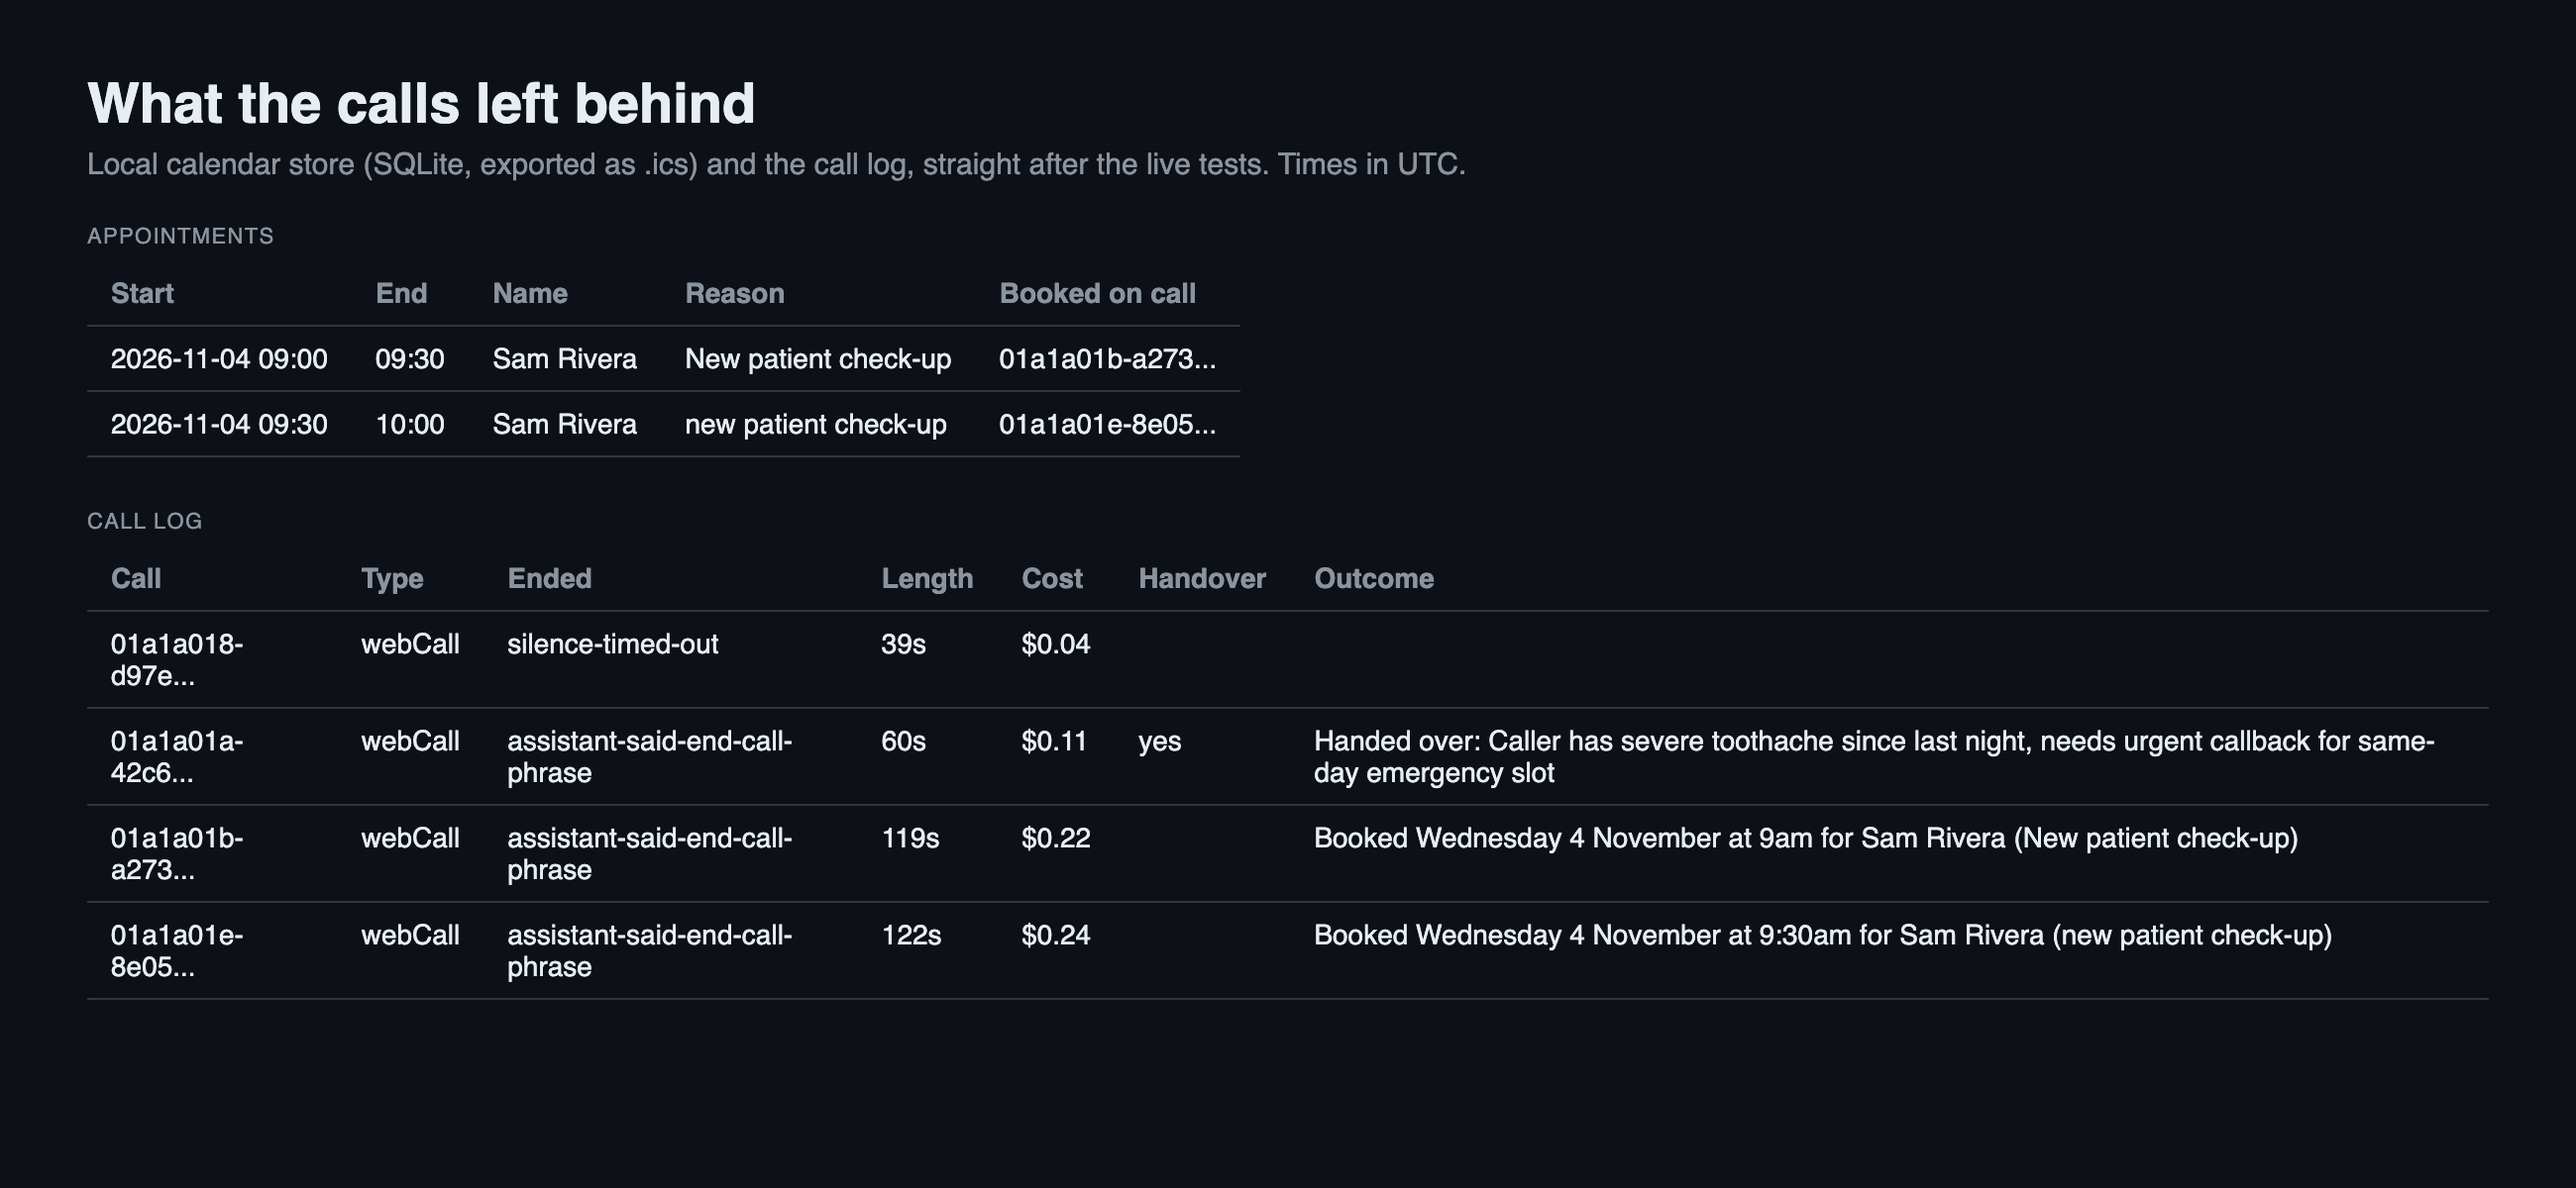
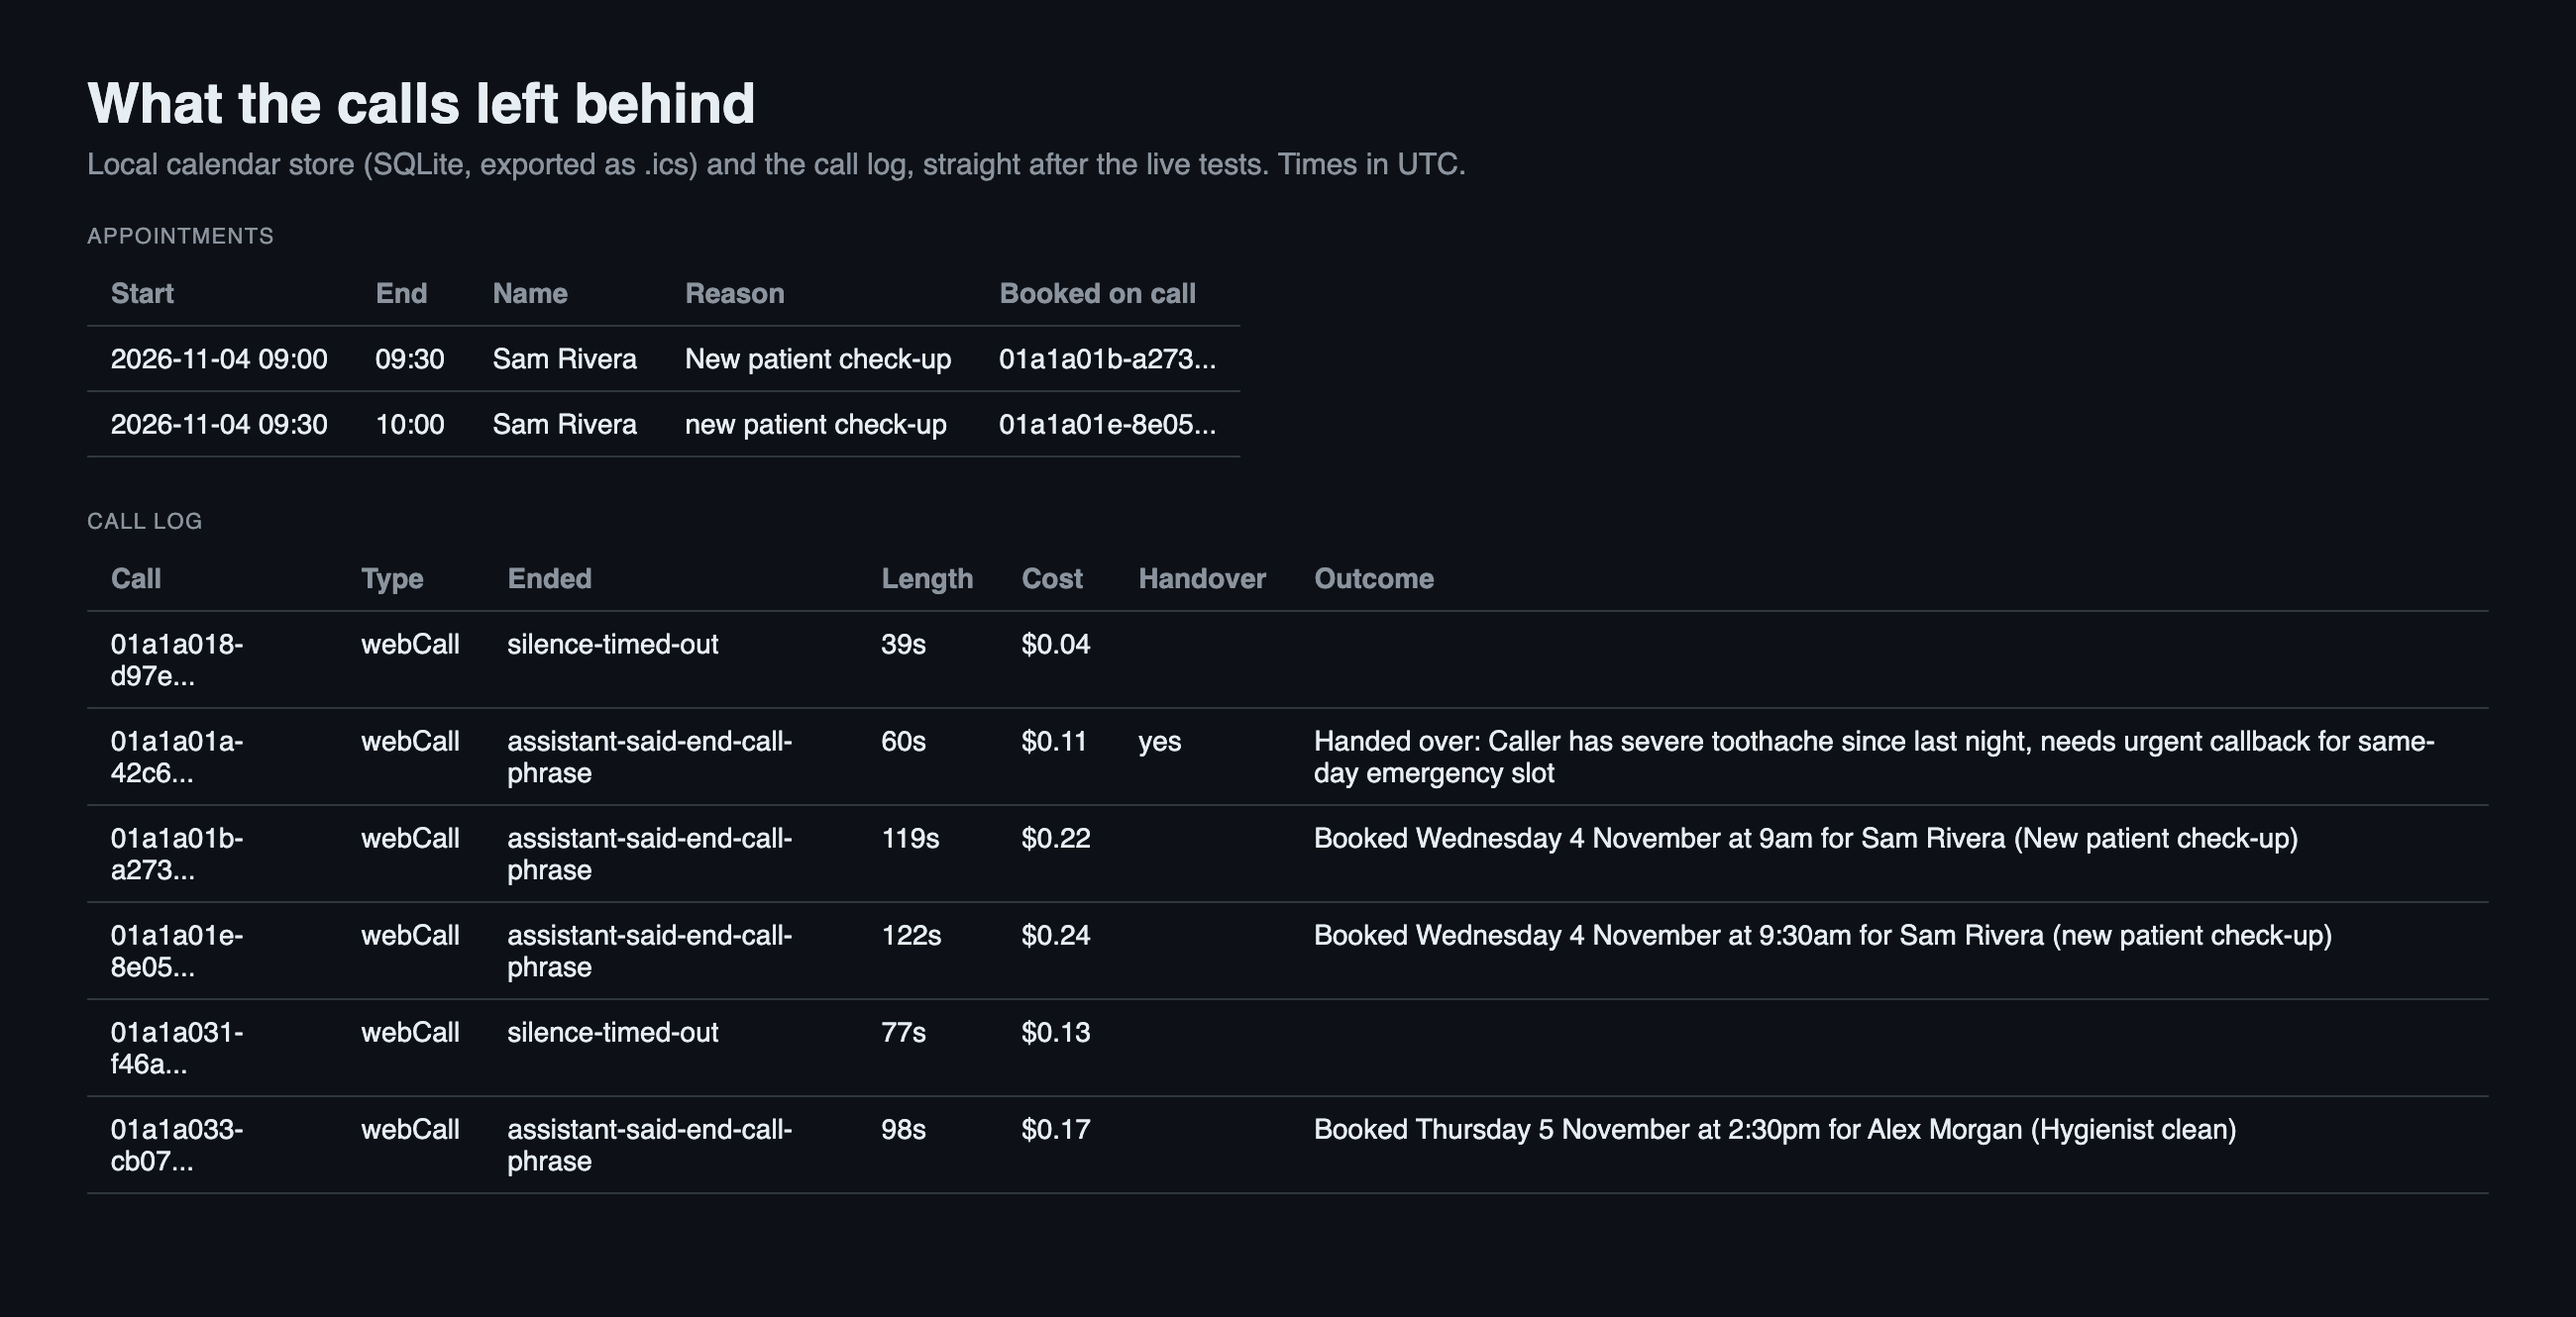
Live-tested Google Calendar backend; list whole day as morning/afternoon slots
A live call asking for the first slot after 2pm stalled because only the first
eight slots were listed. Service-account key can now come from an env var.

diff --git a/receptionist/calendar/google.py b/receptionist/calendar/google.py
@@ -49,14 +49,18 @@ def _parse(value: str) -> datetime:
     return datetime.fromisoformat(value.replace("Z", "+00:00"))
 
 
-def service_account_token_provider(path: str) -> Callable[[], str]:
-    """Token provider from a service-account JSON key (needs `pip install google-auth`).
-    Share the calendar with the service account's email so it can write events."""
+def service_account_token_provider(path: Optional[str] = None, info: Optional[dict] = None) -> Callable[[], str]:
+    """Token provider from a service-account key, given as a JSON file path or as the parsed JSON
+    (handy when the key comes from a secret store rather than a file). Needs `pip install google-auth requests`.
+    Share the calendar with the service account's email ("Make changes to events") so it can write."""
     from google.oauth2 import service_account  # optional dependency
     from google.auth.transport.requests import Request
 
-    creds = service_account.Credentials.from_service_account_file(
-        path, scopes=["https://www.googleapis.com/auth/calendar"])
+    scopes = ["https://www.googleapis.com/auth/calendar"]
+    if info is not None:
+        creds = service_account.Credentials.from_service_account_info(info, scopes=scopes)
+    else:
+        creds = service_account.Credentials.from_service_account_file(path, scopes=scopes)
 
     def token() -> str:
         if not creds.valid:

diff --git a/receptionist/tools.py b/receptionist/tools.py
@@ -67,10 +67,12 @@ class Receptionist:
         if day is not None:
             slots = self.scheduler.free_slots(day, now)
             if slots:
-                times = ", ".join(spoken(s).split(" at ")[1] for s in slots[:8])
-                more = f" and {len(slots) - 8} more" if len(slots) > 8 else ""
+                def times(part):
+                    return ", ".join(spoken(s).split(" at ")[1] for s in part) or "none"
+                morning = [s for s in slots if s.hour < 12]
+                afternoon = [s for s in slots if s.hour >= 12]
                 return (f"Today is {now:%A %d %B %Y}. Free 30-minute slots on {day:%A %d %B} "
-                        f"(date {day.isoformat()}): {times}{more}.")
+                        f"(date {day.isoformat()}). Morning: {times(morning)}. Afternoon: {times(afternoon)}.")
             alt = next(self.scheduler.next_days_with_slots(day, 14, now), None)
             if alt is None:
                 return f"Today is {now:%A %d %B %Y}. Nothing free on {day:%A %d %B} or in the two weeks after."

diff --git a/receptionist/app.py b/receptionist/app.py
@@ -23,8 +23,9 @@ def build_receptionist(settings: Settings, calendar=None, notifier: Optional[Not
     if calendar is None:
         if settings.calendar_backend == "google":
             from .calendar.google import GoogleCalendar, service_account_token_provider
+            info = json.loads(settings.google_service_account_json) if settings.google_service_account_json else None
             calendar = GoogleCalendar(settings.google_calendar_id,
-                                      service_account_token_provider(settings.google_service_account_file),
+                                      service_account_token_provider(settings.google_service_account_file, info),
                                       timezone=settings.timezone)
         else:
             calendar = LocalCalendar(settings.data_dir / "calendar.sqlite3")

diff --git a/receptionist/config.py b/receptionist/config.py
@@ -30,6 +30,7 @@ class Settings:
     calendar_backend: str = "local"
     google_calendar_id: Optional[str] = None
     google_service_account_file: Optional[str] = None
+    google_service_account_json: Optional[str] = None
     team_email: Optional[str] = None
     smtp_host: Optional[str] = None
     smtp_port: int = 587
@@ -50,6 +51,7 @@ class Settings:
             calendar_backend=env("CALENDAR_BACKEND", "local"),
             google_calendar_id=env("GOOGLE_CALENDAR_ID"),
             google_service_account_file=env("GOOGLE_SERVICE_ACCOUNT_FILE"),
+            google_service_account_json=env("GOOGLE_SERVICE_ACCOUNT_JSON"),
             team_email=env("TEAM_EMAIL"),
             smtp_host=env("SMTP_HOST"),
             smtp_port=int(env("SMTP_PORT", "587")),

diff --git a/tests/test_tools.py b/tests/test_tools.py
@@ -5,6 +5,8 @@ def test_check_availability_for_a_named_day(receptionist):
     out = receptionist.run("check_availability", {"date": "tomorrow"}, CALL)
     assert "Tuesday 04 November" in out and "(date 2025-11-04)" in out and "9am" in out
     assert "Today is Monday 03 November 2025" in out
+    # the whole day is listed, split so the caller can ask for "afternoon"
+    assert "Morning: 9am, 9:30am" in out and "Afternoon: 12pm" in out and "4:30pm." in out
 
 
 def test_check_availability_without_date_lists_next_days(receptionist):

diff --git a/README.md b/README.md
@@ -35,8 +35,9 @@ flowchart LR
 
 - **The calendar is an adapter.** Anything with two methods, `busy(start, end)` and `create_event(booking)`, works as a calendar. Slot logic (opening hours, 30-minute slots, minimum notice, double-booking check) lives in one place, `receptionist/scheduling.py`, so every backend behaves the same.
   - `LocalCalendar`: SQLite plus an `.ics` export at `/calendar.ics` that Google Calendar, Outlook or Apple Calendar can subscribe to. Used for the live tests.
-  - `GoogleCalendar`: free/busy and event insert through the Google Calendar REST API with a service account. **Unit-tested against mocked HTTP only, not live-tested.**
+  - `GoogleCalendar`: free/busy and event insert through the Google Calendar REST API with a service account (key from a file or straight from a secret store via `GOOGLE_SERVICE_ACCOUNT_JSON`; needs `pip install google-auth requests`). Unit-tested against mocked HTTP and tested live (see below).
 - **Tools answer in plain sentences.** A voice agent has to say the result out loud, so each tool returns something speakable ("Booked. Sam Rivera, new patient check-up, Wednesday 4 November at 9:30am") rather than raw JSON.
+- **The whole day, split in two.** For a named day the tool lists every free slot as "Morning: ... Afternoon: ...". An earlier version listed only the first eight, and a live call where the caller asked for "the first time after 2pm" stalled because the afternoon was hidden from Claude.
 - **Dates are resolved by the server, not the model.** The caller says "tomorrow" or "Friday"; the tool works out the date in the business's time zone and tells Claude today's date in every result, so the model never has to guess it.
 - **Fails out loud, not silent.** If the calendar can't be reached, the tool tells Claude to offer a message and a call-back instead of leaving dead air, and the error is written to the call log.
 - **Caller words are data.** Names and reasons are cleaned (control characters stripped, length capped) before they reach a calendar or an email, and the prompt tells Claude to ignore instructions from callers.
@@ -90,24 +91,28 @@ pytest -v
 
 ## Tested live
 
-**Tested live on 3 November 2026** on a Vapi account with its free starter credit. The service ran on a Mac behind a Cloudflare quick tunnel; the calendar was the local SQLite store; team emails went out over Gmail SMTP to a test inbox.
+**Tested live on 3 November 2026** on a Vapi account with its free starter credit. The service ran on a Mac behind a Cloudflare quick tunnel; team emails went out over Gmail SMTP to a test inbox. The Google Calendar booking used a real Google Calendar (a dedicated demo calendar shared with a service account); the other two calls used the local SQLite calendar.
 
 | Call | What happened | Length | Vapi cost |
 |---|---|---|---|
 | Booking | Caller asked about parking (answered from the knowledge base), asked for the earliest slot tomorrow morning, gave name and number, confirmed. `check_availability`, `book_appointment` and `send_summary` all ran; the booking appeared in the calendar store and `.ics` export with the call ID attached; the summary email went out (confirmed in the sending mailbox). | 2m 2s | $0.24 |
+| Google Calendar booking | Caller asked the price of a hygienist clean (55 pounds, from the knowledge base), then for the first time after 2pm on Thursday. Free slots came from Google's free/busy API; Claude offered 2:30pm, read it back, and `book_appointment` wrote the event into Google Calendar (checked through the API and in the Calendar web app, then deleted). Summary email went out. | 1m 38s | $0.17 |
 | Handover | Caller with toothache asked for a real person. Claude collected name and call-back number, called `handover` with `urgent: true`, told the caller the team would ring back within 15 minutes, then sent the summary. Both emails went out (confirmed in the sending mailbox). | 1m 0s | $0.11 |
+
+![The booking in Google Calendar](media/google-calendar-booking.png)
+
+*The event the receptionist created, open in Google Calendar. The viewer is on Dubai time (GMT+4), so 2:30pm London shows as 6:30pm.*
 
 ![Calendar store and call log after the live tests](media/calendar-and-call-log.png)
 
-More evidence in `media/`: the handover transcript (`live-handover-call.png`), Vapi's own call log for the booking call (`vapi-dashboard-call-log.png`) and the exported calendar (`live-test-calendar.ics`).
+More evidence in `media/`: the Google booking transcript (`live-google-booking-call.png`), the handover transcript (`live-handover-call.png`), Vapi's own call log for the booking call (`vapi-dashboard-call-log.png`) and the exported calendar (`live-test-calendar.ics`).
 
 ### What was not live-tested, honestly
 
 - **A real phone call.** The assistant is attached to a Vapi phone number, but the recorded tests are Vapi **web calls**. Free Vapi numbers have a daily outbound limit, so an automated caller could not dial in, and a human test call to the number was not recorded. The tools and the assistant are the same either way; only the audio transport differs.
 - **A real human voice.** The caller in the tests is a synthetic voice reading a script, not a person. Vapi's speech-to-text handled it well (it heard "Harbour" as "Harbor", which does not matter for a call).
-- **Google Calendar.** The adapter is unit-tested against mocked Google API responses only.
 - **Live transfer to a person.** `transferCall` is only added when `TRANSFER_NUMBER` is set; the live handover test covered the email alert and call-back promise, not a transfer.
-- **Model.** The brief was Claude Sonnet 5.5, but Vapi's Anthropic provider list at build time stopped at `claude-sonnet-5`, so that is what the live calls used (through Vapi's own Anthropic access, no separate key). Change `VAPI_ANTHROPIC_MODEL` in `receptionist/assistant.py` when Vapi adds newer models.
+- **Model.** The target was Claude Sonnet 5.5, but Vapi's Anthropic provider list at build time stopped at `claude-sonnet-5`, so that is what the live calls used (through Vapi's own Anthropic access, no separate key). Change `VAPI_ANTHROPIC_MODEL` in `receptionist/assistant.py` when Vapi adds newer models.
 - **Production hosting.** The tunnel is for testing. In production the service would sit on any small host with HTTPS (a container on Render, Fly.io, AWS and so on) and the SQLite files would move to a managed database.
 
 ## Project layout
